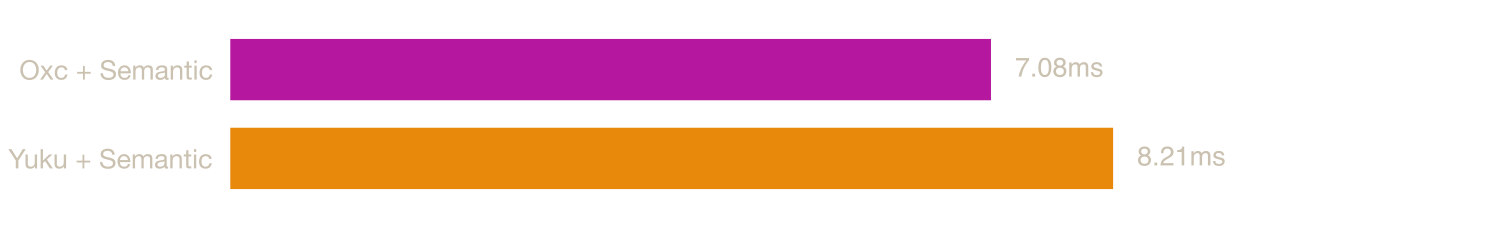
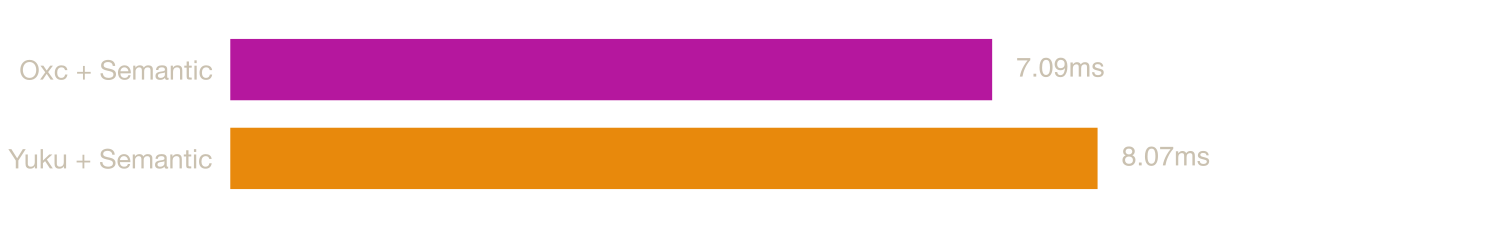
update

Changed region(s): [[0.7053, 0.5526, 0.828, 0.8289], [0.6747, 0.2456, 0.736, 0.3377]]

diff --git a/README.md b/README.md
@@ -41,9 +41,9 @@ An extensible Rust-based platform for compiling and bundling JavaScript and Type
 
 | Parser | Median | Min | p99 |
 |--------|--------|-----|-----|
-| Oxc | 23.87 ms | 23.56 ms | 24.42 ms |
-| Yuku | 26.49 ms | 25.39 ms | 27.15 ms |
-| SWC | 41.50 ms | 40.84 ms | 42.40 ms |
+| Oxc | 23.96 ms | 23.83 ms | 47.12 ms |
+| Yuku | 26.15 ms | 25.71 ms | 32.27 ms |
+| SWC | 43.68 ms | 41.20 ms | 72.49 ms |
 
 ### [calcom.tsx](https://raw.githubusercontent.com/yuku-toolchain/parser-benchmark-files/refs/heads/main/calcom.tsx)
 
@@ -53,9 +53,9 @@ An extensible Rust-based platform for compiling and bundling JavaScript and Type
 
 | Parser | Median | Min | p99 |
 |--------|--------|-----|-----|
-| Oxc | 3.59 ms | 3.55 ms | 3.83 ms |
-| Yuku | 4.18 ms | 3.89 ms | 4.31 ms |
-| SWC | 6.23 ms | 6.13 ms | 6.67 ms |
+| Oxc | 3.58 ms | 3.54 ms | 3.78 ms |
+| Yuku | 3.97 ms | 3.91 ms | 4.41 ms |
+| SWC | 6.34 ms | 6.18 ms | 6.88 ms |
 
 ### [react.js](https://raw.githubusercontent.com/yuku-toolchain/parser-benchmark-files/refs/heads/main/react.js)
 
@@ -65,9 +65,9 @@ An extensible Rust-based platform for compiling and bundling JavaScript and Type
 
 | Parser | Median | Min | p99 |
 |--------|--------|-----|-----|
-| Oxc | 0.16 ms | 0.16 ms | 0.17 ms |
-| Yuku | 0.18 ms | 0.17 ms | 0.18 ms |
-| SWC | 0.27 ms | 0.27 ms | 0.28 ms |
+| Oxc | 0.16 ms | 0.16 ms | 0.21 ms |
+| Yuku | 0.17 ms | 0.17 ms | 0.18 ms |
+| SWC | 0.28 ms | 0.27 ms | 0.31 ms |
 
 ## Semantic
 
@@ -83,8 +83,8 @@ The benchmarks below measure parsing followed by this additional pass, which bui
 
 | Parser | Median | Min | p99 |
 |--------|--------|-----|-----|
-| Yuku + Semantic | 44.15 ms | 42.84 ms | 45.46 ms |
-| Oxc + Semantic | 53.92 ms | 53.08 ms | 54.90 ms |
+| Yuku + Semantic | 43.85 ms | 43.10 ms | 83.55 ms |
+| Oxc + Semantic | 54.13 ms | 53.17 ms | 73.92 ms |
 
 ### [calcom.tsx](https://raw.githubusercontent.com/yuku-toolchain/parser-benchmark-files/refs/heads/main/calcom.tsx)
 
@@ -92,8 +92,8 @@ The benchmarks below measure parsing followed by this additional pass, which bui
 
 | Parser | Median | Min | p99 |
 |--------|--------|-----|-----|
-| Oxc + Semantic | 7.08 ms | 6.98 ms | 7.31 ms |
-| Yuku + Semantic | 8.21 ms | 7.92 ms | 8.39 ms |
+| Oxc + Semantic | 7.09 ms | 7.00 ms | 13.57 ms |
+| Yuku + Semantic | 8.07 ms | 7.98 ms | 8.50 ms |
 
 ### [react.js](https://raw.githubusercontent.com/yuku-toolchain/parser-benchmark-files/refs/heads/main/react.js)
 
@@ -101,8 +101,8 @@ The benchmarks below measure parsing followed by this additional pass, which bui
 
 | Parser | Median | Min | p99 |
 |--------|--------|-----|-----|
-| Yuku + Semantic | 0.31 ms | 0.31 ms | 0.32 ms |
-| Oxc + Semantic | 0.34 ms | 0.34 ms | 0.49 ms |
+| Yuku + Semantic | 0.30 ms | 0.30 ms | 0.31 ms |
+| Oxc + Semantic | 0.34 ms | 0.34 ms | 0.37 ms |
 
 ## Run Benchmarks
 
